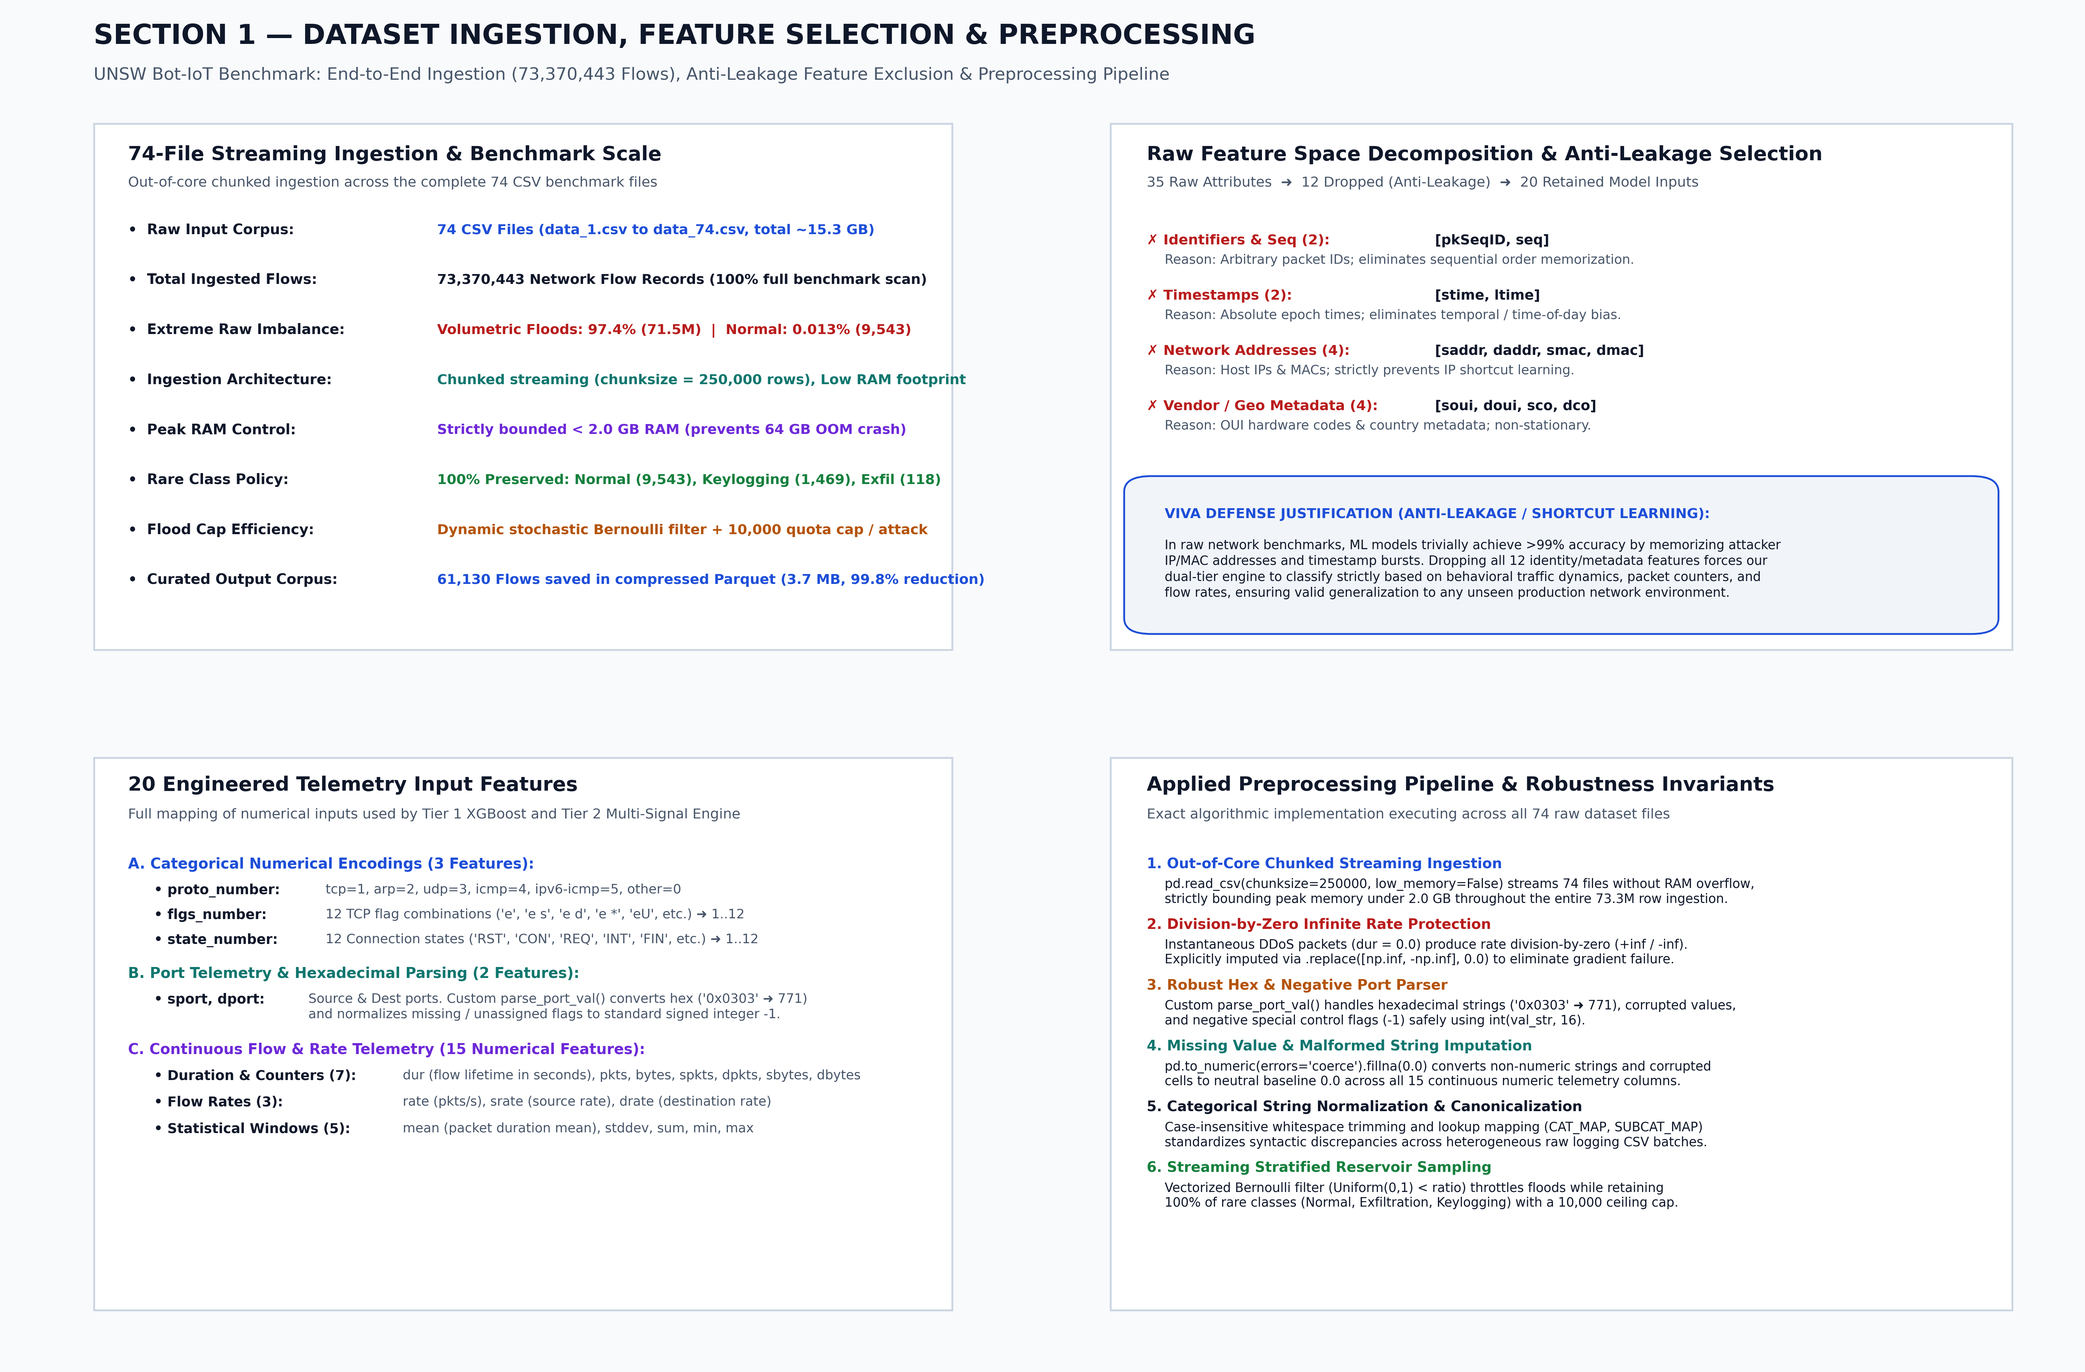
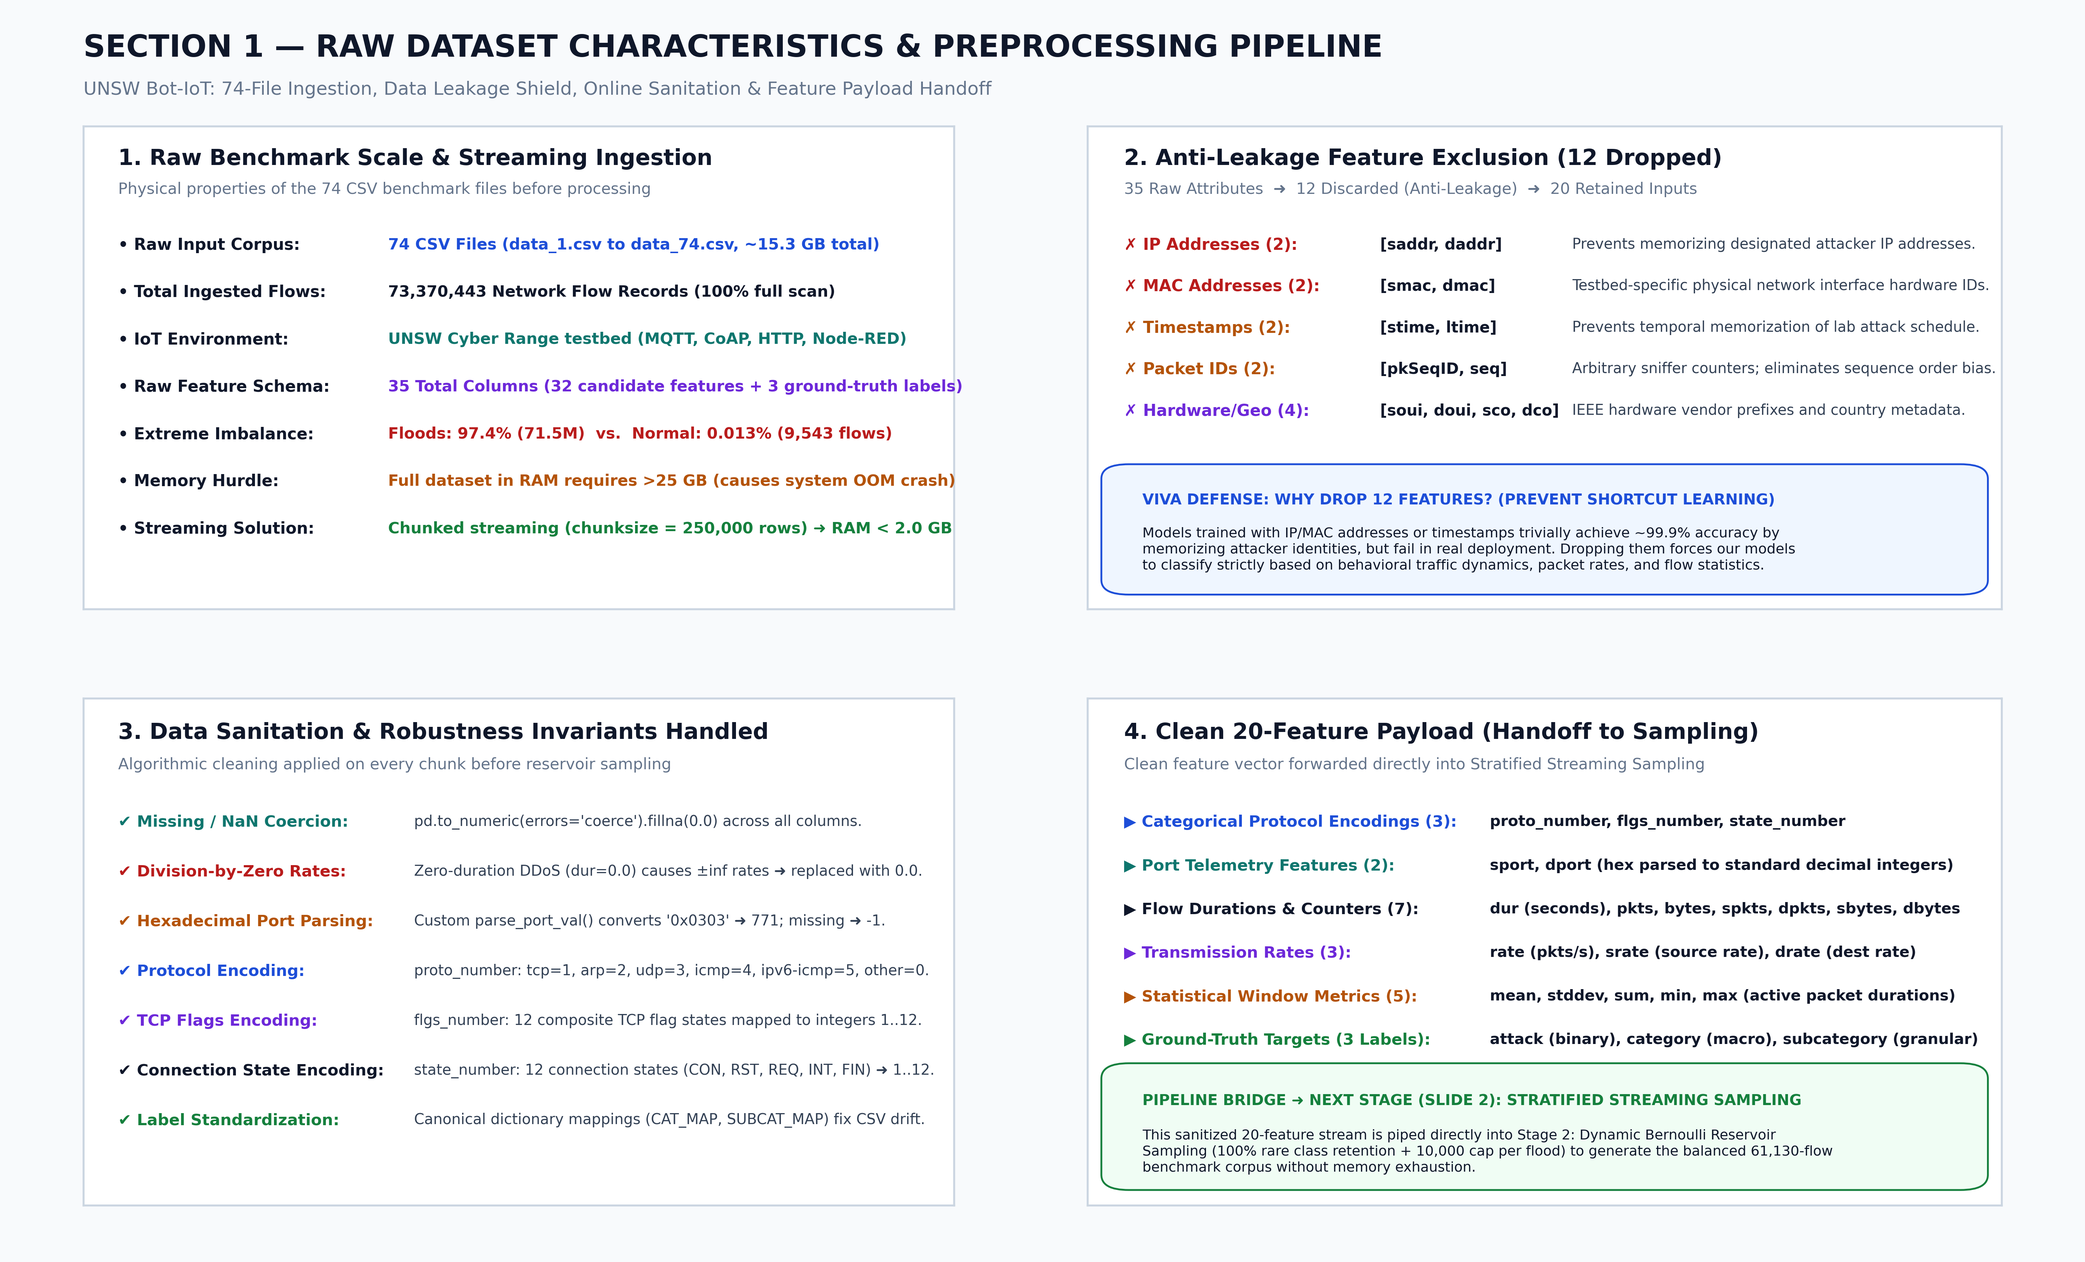
fix: Zoom in presentation slide fonts, eliminate text overflow, and streamline bullet hierarchy

diff --git a/Final_Proposed_Solution/06_Presentation_Dashboards/generate_presentation_dashboards.py b/Final_Proposed_Solution/06_Presentation_Dashboards/generate_presentation_dashboards.py
@@ -45,168 +45,150 @@ C_GRAY_TEXT = "#64748B"
 
 def create_section1_dashboard():
     print("Generating Section 1: Data Ingestion & Preprocessing Dashboard...")
-    fig = plt.figure(figsize=(19, 12.5), facecolor=C_BG)
+    fig = plt.figure(figsize=(19, 11.5), facecolor=C_BG)
     gs = gridspec.GridSpec(2, 2, height_ratios=[1.0, 1.05], width_ratios=[1.0, 1.05],
-                           left=0.045, right=0.965, top=0.91, bottom=0.045, wspace=0.18, hspace=0.20)
+                           left=0.04, right=0.96, top=0.90, bottom=0.045, wspace=0.15, hspace=0.18)
 
     # Main Header
-    fig.text(0.045, 0.968, "SECTION 1 — DATASET INGESTION, FEATURE SELECTION & PREPROCESSING",
-             fontsize=18, fontweight='bold', color=C_DARK)
-    fig.text(0.045, 0.942,
-             "UNSW Bot-IoT Benchmark: End-to-End Ingestion (73,370,443 Flows), Anti-Leakage Feature Exclusion & Preprocessing Pipeline",
-             fontsize=11.2, color=C_GRAY_TEXT)
+    fig.text(0.04, 0.955, "SECTION 1 — RAW DATASET CHARACTERISTICS & PREPROCESSING PIPELINE",
+             fontsize=20, fontweight='bold', color=C_DARK)
+    fig.text(0.04, 0.925,
+             "UNSW Bot-IoT: 74-File Ingestion, Data Leakage Shield, Online Sanitation & Feature Payload Handoff",
+             fontsize=12, color=C_GRAY_TEXT)
 
-    # PANEL 1 (Top-Left): 74-File Streaming Ingestion & Benchmark Scale
+    # CARD 1 (Top-Left): Raw Benchmark Scale & Physical Ingestion
     ax1 = fig.add_subplot(gs[0, 0])
     ax1.set_facecolor(C_WHITE)
     for spine in ax1.spines.values():
         spine.set_color(C_GRAY_LIGHT)
-        spine.set_linewidth(1.2)
+        spine.set_linewidth(1.3)
     ax1.set_xticks([])
     ax1.set_yticks([])
 
-    ax1.text(0.04, 0.93, "74-File Streaming Ingestion & Benchmark Scale", fontsize=13, fontweight='bold', color=C_DARK)
-    ax1.text(0.04, 0.88, "Out-of-core chunked ingestion across the complete 74 CSV benchmark files", fontsize=9.2, color=C_GRAY_TEXT)
+    ax1.text(0.04, 0.92, "1. Raw Benchmark Scale & Streaming Ingestion", fontsize=14.5, fontweight='bold', color=C_DARK)
+    ax1.text(0.04, 0.86, "Physical properties of the 74 CSV benchmark files before processing", fontsize=10.2, color=C_GRAY_TEXT)
 
-    p1_items = [
-        ("Raw Input Corpus", "74 CSV Files (data_1.csv to data_74.csv, total ~15.3 GB)", C_BLUE),
-        ("Total Ingested Flows", "73,370,443 Network Flow Records (100% full benchmark scan)", C_DARK),
-        ("Extreme Raw Imbalance", "Volumetric Floods: 97.4% (71.5M)  |  Normal: 0.013% (9,543)", C_RED),
-        ("Ingestion Architecture", "Chunked streaming (chunksize = 250,000 rows), Low RAM footprint", C_TEAL),
-        ("Peak RAM Control", "Strictly bounded < 2.0 GB RAM (prevents 64 GB OOM crash)", C_PURPLE),
-        ("Rare Class Policy", "100% Preserved: Normal (9,543), Keylogging (1,469), Exfil (118)", C_GREEN),
-        ("Flood Cap Efficiency", "Dynamic stochastic Bernoulli filter + 10,000 quota cap / attack", C_AMBER),
-        ("Curated Output Corpus", "61,130 Flows saved in compressed Parquet (3.7 MB, 99.8% reduction)", C_BLUE)
+    c1_items = [
+        ("Raw Input Corpus", "74 CSV Files (data_1.csv to data_74.csv, ~15.3 GB total)", C_BLUE),
+        ("Total Ingested Flows", "73,370,443 Network Flow Records (100% full scan)", C_DARK),
+        ("IoT Environment", "UNSW Cyber Range testbed (MQTT, CoAP, HTTP, Node-RED)", C_TEAL),
+        ("Raw Feature Schema", "35 Total Columns (32 candidate features + 3 ground-truth labels)", C_PURPLE),
+        ("Extreme Imbalance", "Floods: 97.4% (71.5M)  vs.  Normal: 0.013% (9,543 flows)", C_RED),
+        ("Memory Hurdle", "Full dataset in RAM requires >25 GB (causes system OOM crash)", C_AMBER),
+        ("Streaming Solution", "Chunked streaming (chunksize = 250,000 rows) ➜ RAM < 2.0 GB", C_GREEN)
     ]
 
-    y_pos = 0.79
-    for label, val, color in p1_items:
-        ax1.text(0.04, y_pos, f"•  {label}:", fontsize=9.3, fontweight='bold', color=C_DARK)
-        ax1.text(0.40, y_pos, val, fontsize=9.1, fontweight='bold', color=color)
-        y_pos -= 0.095
+    y = 0.77
+    for label, val, col in c1_items:
+        ax1.text(0.04, y, f"• {label}:", fontsize=10.5, fontweight='bold', color=C_DARK, va='top')
+        ax1.text(0.35, y, val, fontsize=10.2, fontweight='bold', color=col, va='top')
+        y -= 0.098
 
-    # PANEL 2 (Top-Right): Feature Space Decomposition & Anti-Leakage Feature Exclusion
+    # CARD 2 (Top-Right): Anti-Leakage Feature Exclusion (12 Dropped)
     ax2 = fig.add_subplot(gs[0, 1])
     ax2.set_facecolor(C_WHITE)
     for spine in ax2.spines.values():
         spine.set_color(C_GRAY_LIGHT)
-        spine.set_linewidth(1.2)
+        spine.set_linewidth(1.3)
     ax2.set_xticks([])
     ax2.set_yticks([])
 
-    ax2.text(0.04, 0.93, "Raw Feature Space Decomposition & Anti-Leakage Selection", fontsize=13, fontweight='bold', color=C_DARK)
-    ax2.text(0.04, 0.88, "35 Raw Attributes  ➜  12 Dropped (Anti-Leakage)  ➜  20 Retained Model Inputs", fontsize=9.2, color=C_GRAY_TEXT)
+    ax2.text(0.04, 0.92, "2. Anti-Leakage Feature Exclusion (12 Dropped)", fontsize=14.5, fontweight='bold', color=C_DARK)
+    ax2.text(0.04, 0.86, "35 Raw Attributes  ➜  12 Discarded (Anti-Leakage)  ➜  20 Retained Inputs", fontsize=10.2, color=C_GRAY_TEXT)
 
-    dropped_groups = [
-        ("Identifiers & Seq (2)", "pkSeqID, seq", "Arbitrary packet IDs; eliminates sequential order memorization."),
-        ("Timestamps (2)", "stime, ltime", "Absolute epoch times; eliminates temporal / time-of-day bias."),
-        ("Network Addresses (4)", "saddr, daddr, smac, dmac", "Host IPs & MACs; strictly prevents IP shortcut learning."),
-        ("Vendor / Geo Metadata (4)", "soui, doui, sco, dco", "OUI hardware codes & country metadata; non-stationary.")
+    c2_dropped = [
+        ("IP Addresses (2)", "saddr, daddr", "Prevents memorizing designated attacker IP addresses.", C_RED),
+        ("MAC Addresses (2)", "smac, dmac", "Testbed-specific physical network interface hardware IDs.", C_RED),
+        ("Timestamps (2)", "stime, ltime", "Prevents temporal memorization of lab attack schedule.", C_AMBER),
+        ("Packet IDs (2)", "pkSeqID, seq", "Arbitrary sniffer counters; eliminates sequence order bias.", C_AMBER),
+        ("Hardware/Geo (4)", "soui, doui, sco, dco", "IEEE hardware vendor prefixes and country metadata.", C_PURPLE)
     ]
 
-    y_pos = 0.79
-    for grp, cols, reason in dropped_groups:
-        ax2.text(0.04, y_pos, f"✗ {grp}:", fontsize=9.2, fontweight='bold', color=C_RED, va='top')
-        ax2.text(0.36, y_pos, f"[{cols}]", fontsize=9.0, fontweight='bold', color=C_DARK, va='top')
-        ax2.text(0.06, y_pos - 0.038, f"Reason: {reason}", fontsize=8.5, color=C_GRAY_TEXT, va='top')
-        y_pos -= 0.105
+    y = 0.77
+    for grp, cols, reason, col in c2_dropped:
+        ax2.text(0.04, y, f"✗ {grp}:", fontsize=10.5, fontweight='bold', color=col, va='top')
+        ax2.text(0.32, y, f"[{cols}]", fontsize=10.0, fontweight='bold', color=C_DARK, va='top')
+        ax2.text(0.53, y, reason, fontsize=9.5, color=C_GRAY_TEXT, va='top')
+        y -= 0.086
 
     # Viva Defense Callout Box
-    rect = FancyBboxPatch((0.035, 0.05), 0.93, 0.26, boxstyle="round,pad=0.02,rounding_size=0.03",
-                          facecolor="#F1F5F9", edgecolor=C_BLUE, linewidth=1.2)
-    ax2.add_patch(rect)
-    ax2.text(0.06, 0.27, "VIVA DEFENSE JUSTIFICATION (ANTI-LEAKAGE / SHORTCUT LEARNING):",
-             fontsize=9.0, fontweight='bold', color=C_BLUE, va='top')
-    ax2.text(0.06, 0.21,
-             "In raw network benchmarks, ML models trivially achieve >99% accuracy by memorizing attacker\n"
-             "IP/MAC addresses and timestamp bursts. Dropping all 12 identity/metadata features forces our\n"
-             "dual-tier engine to classify strictly based on behavioral traffic dynamics, packet counters, and\n"
-             "flow rates, ensuring valid generalization to any unseen production network environment.",
-             fontsize=8.3, color=C_DARK, linespacing=1.35, va='top')
+    callout = FancyBboxPatch((0.035, 0.05), 0.93, 0.23, boxstyle="round,pad=0.02,rounding_size=0.03",
+                             facecolor="#EFF6FF", edgecolor=C_BLUE, linewidth=1.2)
+    ax2.add_patch(callout)
+    ax2.text(0.06, 0.24, "VIVA DEFENSE: WHY DROP 12 FEATURES? (PREVENT SHORTCUT LEARNING)",
+             fontsize=9.8, fontweight='bold', color=C_BLUE, va='top')
+    ax2.text(0.06, 0.17,
+             "Models trained with IP/MAC addresses or timestamps trivially achieve ~99.9% accuracy by\n"
+             "memorizing attacker identities, but fail in real deployment. Dropping them forces our models\n"
+             "to classify strictly based on behavioral traffic dynamics, packet rates, and flow statistics.",
+             fontsize=9.2, color=C_DARK, linespacing=1.3, va='top')
 
-    # PANEL 3 (Bottom-Left): Engineered Telemetry Input Features (20 Model Inputs)
+    # CARD 3 (Bottom-Left): Preprocessing & Data Anomalies Handled
     ax3 = fig.add_subplot(gs[1, 0])
     ax3.set_facecolor(C_WHITE)
     for spine in ax3.spines.values():
         spine.set_color(C_GRAY_LIGHT)
-        spine.set_linewidth(1.2)
+        spine.set_linewidth(1.3)
     ax3.set_xticks([])
     ax3.set_yticks([])
 
-    ax3.text(0.04, 0.94, "20 Engineered Telemetry Input Features", fontsize=13, fontweight='bold', color=C_DARK)
-    ax3.text(0.04, 0.89, "Full mapping of numerical inputs used by Tier 1 XGBoost and Tier 2 Multi-Signal Engine", fontsize=9.2, color=C_GRAY_TEXT)
+    ax3.text(0.04, 0.92, "3. Data Sanitation & Robustness Invariants Handled", fontsize=14.5, fontweight='bold', color=C_DARK)
+    ax3.text(0.04, 0.86, "Algorithmic cleaning applied on every chunk before reservoir sampling", fontsize=10.2, color=C_GRAY_TEXT)
 
-    y_pos = 0.82
-    ax3.text(0.04, y_pos, "A. Categorical Numerical Encodings (3 Features):", fontsize=9.6, fontweight='bold', color=C_BLUE, va='top')
-    y_pos -= 0.048
-    cat_enc = [
-        ("proto_number", "tcp=1, arp=2, udp=3, icmp=4, ipv6-icmp=5, other=0"),
-        ("flgs_number", "12 TCP flag combinations ('e', 'e s', 'e d', 'e *', 'eU', etc.) ➜ 1..12"),
-        ("state_number", "12 Connection states ('RST', 'CON', 'REQ', 'INT', 'FIN', etc.) ➜ 1..12")
+    c3_prep = [
+        ("Missing / NaN Coercion", "pd.to_numeric(errors='coerce').fillna(0.0) across all columns.", C_TEAL),
+        ("Division-by-Zero Rates", "Zero-duration DDoS (dur=0.0) causes ±inf rates ➜ replaced with 0.0.", C_RED),
+        ("Hexadecimal Port Parsing", "Custom parse_port_val() converts '0x0303' ➜ 771; missing ➜ -1.", C_AMBER),
+        ("Protocol Encoding", "proto_number: tcp=1, arp=2, udp=3, icmp=4, ipv6-icmp=5, other=0.", C_BLUE),
+        ("TCP Flags Encoding", "flgs_number: 12 composite TCP flag states mapped to integers 1..12.", C_PURPLE),
+        ("Connection State Encoding", "state_number: 12 connection states (CON, RST, REQ, INT, FIN) ➜ 1..12.", C_DARK),
+        ("Label Standardization", "Canonical dictionary mappings (CAT_MAP, SUBCAT_MAP) fix CSV drift.", C_GREEN)
     ]
-    for name, desc in cat_enc:
-        ax3.text(0.07, y_pos, f"• {name}:", fontsize=8.9, fontweight='bold', color=C_DARK, va='top')
-        ax3.text(0.27, y_pos, desc, fontsize=8.6, color=C_GRAY_TEXT, va='top')
-        y_pos -= 0.045
 
-    y_pos -= 0.015
-    ax3.text(0.04, y_pos, "B. Port Telemetry & Hexadecimal Parsing (2 Features):", fontsize=9.6, fontweight='bold', color=C_TEAL, va='top')
-    y_pos -= 0.048
-    ax3.text(0.07, y_pos, "• sport, dport:", fontsize=8.9, fontweight='bold', color=C_DARK, va='top')
-    ax3.text(0.25, y_pos, "Source & Dest ports. Custom parse_port_val() converts hex ('0x0303' ➜ 771)\nand normalizes missing / unassigned flags to standard signed integer -1.",
-             fontsize=8.5, color=C_GRAY_TEXT, linespacing=1.25, va='top')
-    y_pos -= 0.090
+    y = 0.77
+    for title, desc, col in c3_prep:
+        ax3.text(0.04, y, f"✔ {title}:", fontsize=10.4, fontweight='bold', color=col, va='top')
+        ax3.text(0.38, y, desc, fontsize=9.6, color=C_GRAY_TEXT, va='top')
+        y -= 0.098
 
-    ax3.text(0.04, y_pos, "C. Continuous Flow & Rate Telemetry (15 Numerical Features):", fontsize=9.6, fontweight='bold', color=C_PURPLE, va='top')
-    y_pos -= 0.048
-    flow_metrics = [
-        ("Duration & Counters (7)", "dur (flow lifetime in seconds), pkts, bytes, spkts, dpkts, sbytes, dbytes"),
-        ("Flow Rates (3)", "rate (pkts/s), srate (source rate), drate (destination rate)"),
-        ("Statistical Windows (5)", "mean (packet duration mean), stddev, sum, min, max")
-    ]
-    for grp_name, feat_list in flow_metrics:
-        ax3.text(0.07, y_pos, f"• {grp_name}:", fontsize=8.9, fontweight='bold', color=C_DARK, va='top')
-        ax3.text(0.36, y_pos, feat_list, fontsize=8.5, color=C_GRAY_TEXT, va='top')
-        y_pos -= 0.048
-
-    # PANEL 4 (Bottom-Right): Preprocessing Techniques & Algorithmic Invariants
+    # CARD 4 (Bottom-Right): Clean 20-Feature Payload (Handoff to Next Slide)
     ax4 = fig.add_subplot(gs[1, 1])
     ax4.set_facecolor(C_WHITE)
     for spine in ax4.spines.values():
         spine.set_color(C_GRAY_LIGHT)
-        spine.set_linewidth(1.2)
+        spine.set_linewidth(1.3)
     ax4.set_xticks([])
     ax4.set_yticks([])
 
-    ax4.text(0.04, 0.94, "Applied Preprocessing Pipeline & Robustness Invariants", fontsize=13, fontweight='bold', color=C_DARK)
-    ax4.text(0.04, 0.89, "Exact algorithmic implementation executing across all 74 raw dataset files", fontsize=9.2, color=C_GRAY_TEXT)
+    ax4.text(0.04, 0.92, "4. Clean 20-Feature Payload (Handoff to Sampling)", fontsize=14.5, fontweight='bold', color=C_DARK)
+    ax4.text(0.04, 0.86, "Clean feature vector forwarded directly into Stratified Streaming Sampling", fontsize=10.2, color=C_GRAY_TEXT)
 
-    prep_steps = [
-        ("1. Out-of-Core Chunked Streaming Ingestion",
-         "pd.read_csv(chunksize=250000, low_memory=False) streams 74 files without RAM overflow,\n"
-         "strictly bounding peak memory under 2.0 GB throughout the entire 73.3M row ingestion.", C_BLUE),
-        ("2. Division-by-Zero Infinite Rate Protection",
-         "Instantaneous DDoS packets (dur = 0.0) produce rate division-by-zero (+inf / -inf).\n"
-         "Explicitly imputed via .replace([np.inf, -np.inf], 0.0) to eliminate gradient failure.", C_RED),
-        ("3. Robust Hex & Negative Port Parser",
-         "Custom parse_port_val() handles hexadecimal strings ('0x0303' ➜ 771), corrupted values,\n"
-         "and negative special control flags (-1) safely using int(val_str, 16).", C_AMBER),
-        ("4. Missing Value & Malformed String Imputation",
-         "pd.to_numeric(errors='coerce').fillna(0.0) converts non-numeric strings and corrupted\n"
-         "cells to neutral baseline 0.0 across all 15 continuous numeric telemetry columns.", C_TEAL),
-        ("5. Categorical String Normalization & Canonicalization",
-         "Case-insensitive whitespace trimming and lookup mapping (CAT_MAP, SUBCAT_MAP)\n"
-         "standardizes syntactic discrepancies across heterogeneous raw logging CSV batches.", C_DARK),
-        ("6. Streaming Stratified Reservoir Sampling",
-         "Vectorized Bernoulli filter (Uniform(0,1) < ratio) throttles floods while retaining\n"
-         "100% of rare classes (Normal, Exfiltration, Keylogging) with a 10,000 ceiling cap.", C_GREEN)
+    c4_payload = [
+        ("Categorical Protocol Encodings (3)", "proto_number, flgs_number, state_number", C_BLUE),
+        ("Port Telemetry Features (2)", "sport, dport (hex parsed to standard decimal integers)", C_TEAL),
+        ("Flow Durations & Counters (7)", "dur (seconds), pkts, bytes, spkts, dpkts, sbytes, dbytes", C_DARK),
+        ("Transmission Rates (3)", "rate (pkts/s), srate (source rate), drate (dest rate)", C_PURPLE),
+        ("Statistical Window Metrics (5)", "mean, stddev, sum, min, max (active packet durations)", C_AMBER),
+        ("Ground-Truth Targets (3 Labels)", "attack (binary), category (macro), subcategory (granular)", C_GREEN)
     ]
 
-    y_pos = 0.82
-    for title, desc, col in prep_steps:
-        ax4.text(0.04, y_pos, title, fontsize=9.3, fontweight='bold', color=col, va='top')
-        ax4.text(0.06, y_pos - 0.038, desc, fontsize=8.3, color=C_DARK, linespacing=1.22, va='top')
-        y_pos -= 0.110
+    y = 0.77
+    for title, feat_str, col in c4_payload:
+        ax4.text(0.04, y, f"▶ {title}:", fontsize=10.4, fontweight='bold', color=col, va='top')
+        ax4.text(0.44, y, feat_str, fontsize=9.8, fontweight='bold', color=C_DARK, va='top')
+        y -= 0.086
+
+    # Pipeline Bridge Banner
+    bridge_box = FancyBboxPatch((0.035, 0.05), 0.93, 0.21, boxstyle="round,pad=0.02,rounding_size=0.03",
+                                facecolor="#F0FDF4", edgecolor=C_GREEN, linewidth=1.2)
+    ax4.add_patch(bridge_box)
+    ax4.text(0.06, 0.22, "PIPELINE BRIDGE ➜ NEXT STAGE (SLIDE 2): STRATIFIED STREAMING SAMPLING",
+             fontsize=9.8, fontweight='bold', color=C_GREEN, va='top')
+    ax4.text(0.06, 0.15,
+             "This sanitized 20-feature stream is piped directly into Stage 2: Dynamic Bernoulli Reservoir\n"
+             "Sampling (100% rare class retention + 10,000 cap per flood) to generate the balanced 61,130-flow\n"
+             "benchmark corpus without memory exhaustion.",
+             fontsize=9.1, color=C_DARK, linespacing=1.28, va='top')
 
     out_p = os.path.join(PLOTS_DIR, "section1_data_processing_dashboard.png")
     fig.savefig(out_p, dpi=300)
